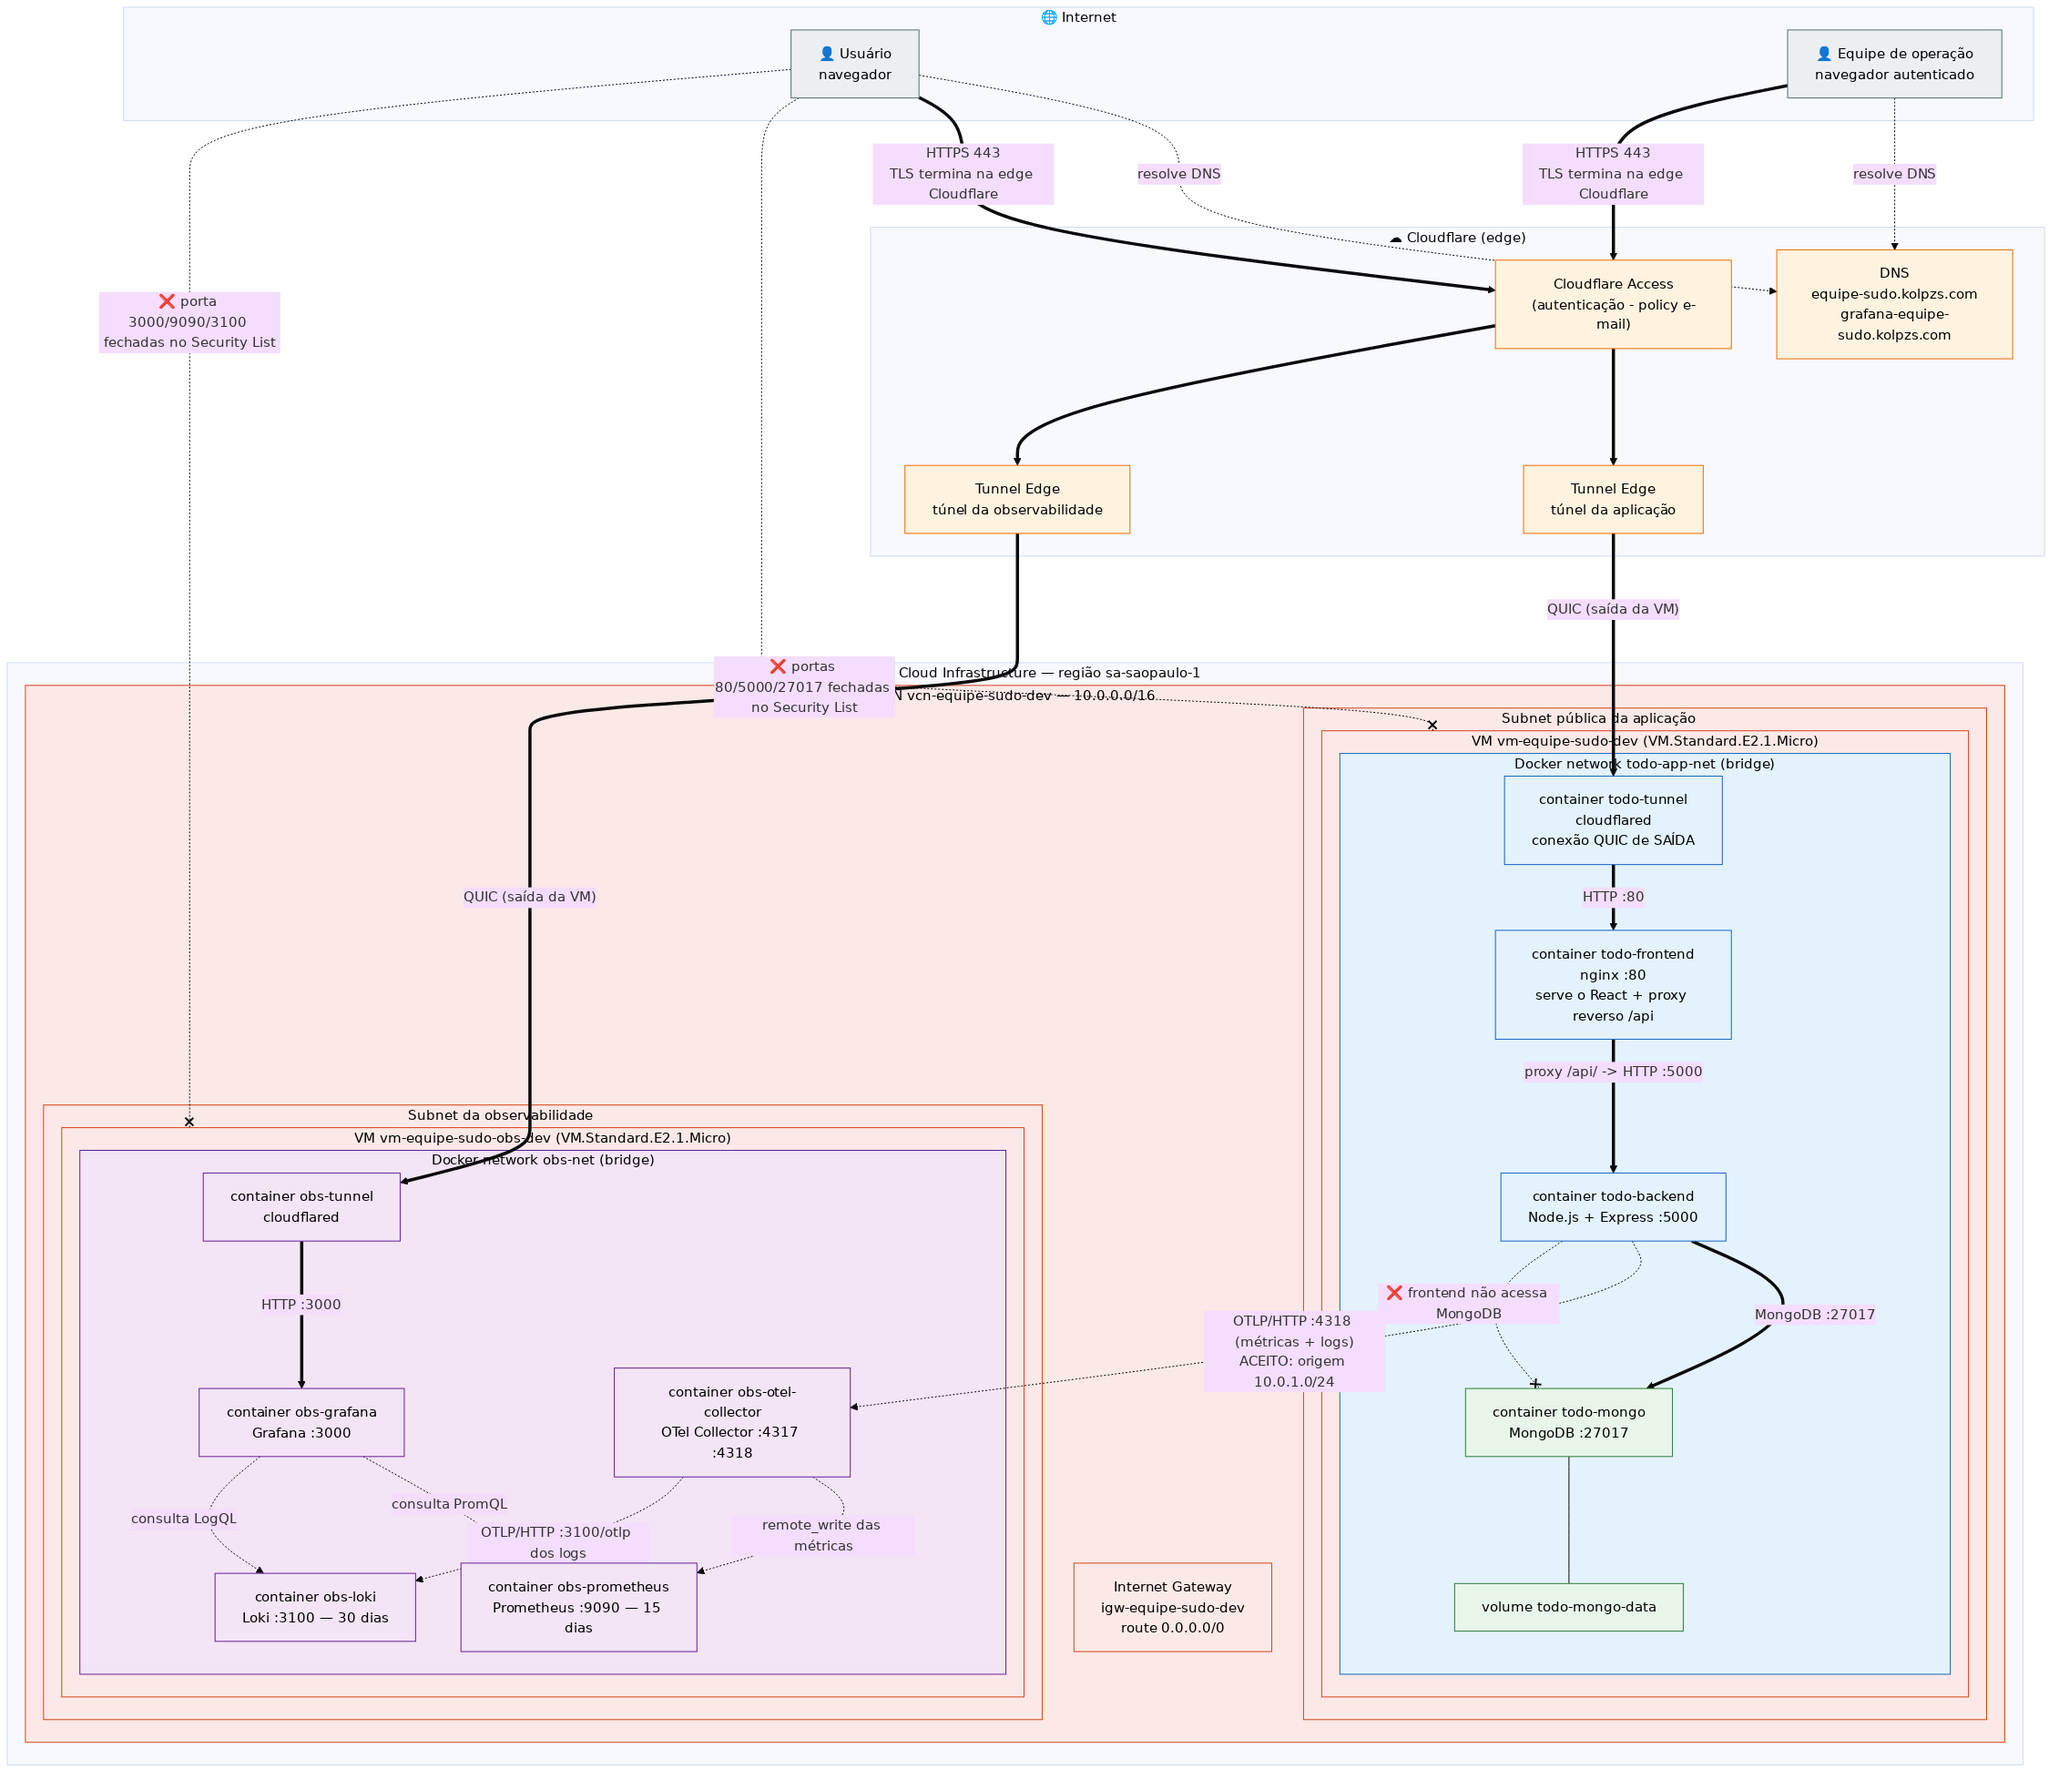
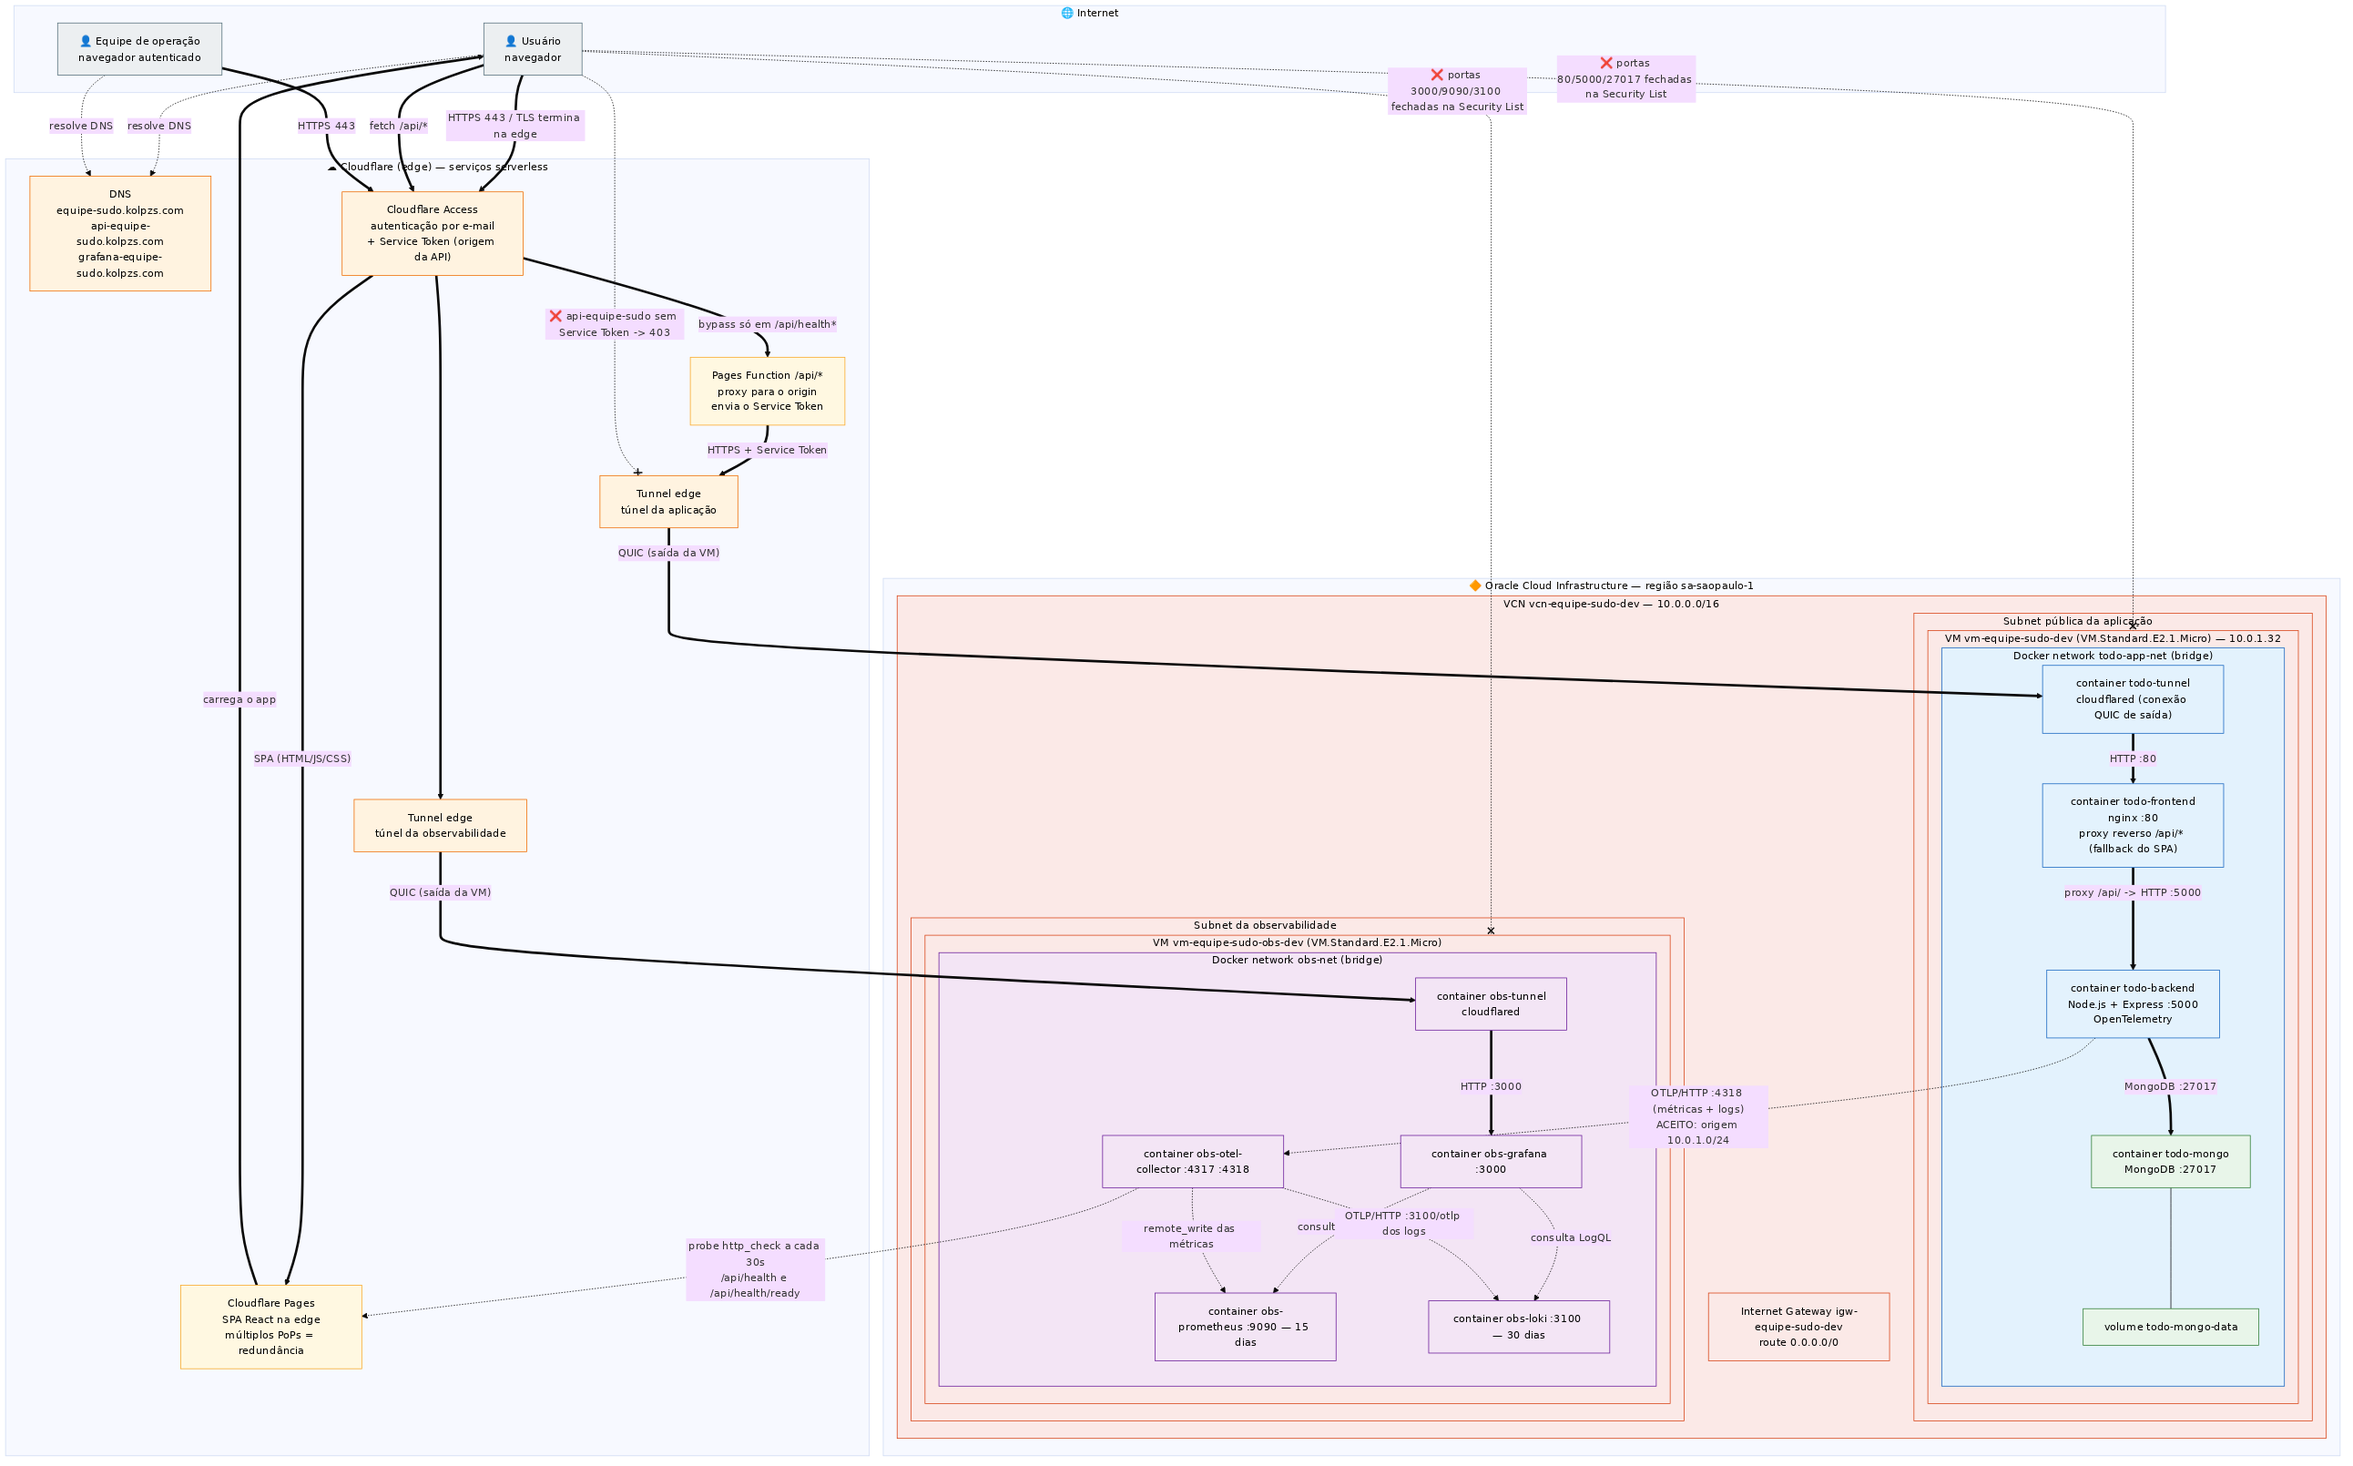
feat(pages): front-end na edge e diagrama atualizado
- workflow deploy-pages.yml: builda o SPA e publica no Cloudflare Pages
- diagrama atualizado: Pages na edge (serverless/redundante), Pages Function
  em /api/*, hostname de origem da API protegido por Service Token
- docs: arquitetura, fluxo do probe, automacao e limitacoes atualizados

diff --git a/docs/entrega-final-02/README.md b/docs/entrega-final-02/README.md
@@ -38,6 +38,8 @@ e **correções necessárias** encontradas ao evoluir a infraestrutura:
 | 7 | Correção: o `terraform plan` tentava alterar `shape_config` (1→2 OCPU / 1→12 GB) e trocar a imagem de boot da VM em execução | Risco de recriar a VM e **perder o volume do MongoDB** |
 | 8 | Correção: workflows do repo da aplicação buildavam `linux/arm64`, incompatível com a VM AMD | As imagens publicadas precisam ser `linux/amd64` |
 | 9 | Estado do Terraform migrado para o **OCI Object Storage** (backend nativo `oci`, com locking) | Permitir `terraform apply` no GitHub Actions, sem depender do estado local de uma máquina |
+| 10 | Front-end migrado para o **Cloudflare Pages** (SPA na edge) — serverless e distribuído | Atender os requisitos de **serviços serverless** e **redundância do front-end** herdados da Entrega 01 |
+| 11 | **Pages Function** em `/api/*` + hostname de origem `api-equipe-sudo.kolpzs.com` protegido por **Access (Service Token)** | O back-end continua na OCI e protegido; a edge passa a ser a entrada do front-end |
 
 O diagrama foi atualizado para representar o ambiente final (seção 4).
 
@@ -92,6 +94,10 @@ VS Code com extensão Mermaid ou <https://mermaid.live>) e **`diagrama-entrega-f
 | Domínio do front-end/API | `equipe-sudo.kolpzs.com` |
 | Domínio do Grafana | `grafana-equipe-sudo.kolpzs.com` |
 | Containers da aplicação | `todo-tunnel`, `todo-frontend`, `todo-backend`, `todo-mongo` (rede `todo-app-net`) |
+| Front-end na edge | **Cloudflare Pages** (projeto `equipe-sudo-frontend`) — SPA React em múltiplos PoPs |
+| Proxy da API na edge | **Pages Function** `functions/api/[[path]].js` |
+| Origem da API (privada ao navegador) | `api-equipe-sudo.kolpzs.com` → túnel `sudo` → `http://frontend:80` |
+| Credencial da Function para a origem | **Service Token** do Cloudflare Access (`pages-api-origin`) |
 | Containers da observabilidade | `obs-tunnel`, `obs-otel-collector`, `obs-prometheus`, `obs-loki`, `obs-grafana` (rede `obs-net`) |
 | Origem das chamadas à API | **Navegador do usuário** → `/api/*` no mesmo domínio (não há chamada server-side do front-end) |
 
@@ -99,7 +105,9 @@ VS Code com extensão Mermaid ou <https://mermaid.live>) e **`diagrama-entrega-f
 
 | Caminho | Protocolo / porta | Terminação TLS |
 |---|---|---|
-| Usuário → Cloudflare | HTTPS 443 | **Cloudflare edge** |
+| Usuário → Cloudflare (SPA) | HTTPS 443 | **Cloudflare edge** (Pages) |
+| Usuário → Cloudflare (`/api/*`) | HTTPS 443 | **Cloudflare edge** (Pages Function) |
+| Pages Function → origem da API | HTTPS 443 + Service Token | **Cloudflare edge** |
 | Cloudflare → `cloudflared` | QUIC (conexão de **saída** da VM) | Cloudflare |
 | `cloudflared` → `nginx` | HTTP 80 (rede Docker) | não aplicável (rede interna) |
 | `nginx` → backend | HTTP 5000 (rede Docker) | não aplicável |
@@ -155,7 +163,7 @@ Caminho completo, conforme exigido (componente → coleta → armazenamento → 
 |---|---|---|---|---|
 | Requisições, latência, erros, operações de negócio e de banco | **Backend** (SDK OpenTelemetry em `instrumentation.js` + `index.js`) | OTLP/HTTP → `obs-otel-collector:4318` → `remote_write` | **Prometheus** (15 dias) — PromQL | Painéis **3, 4, 5, 6, 7** |
 | Logs de aplicação | **Backend** (`logger.js`, JSON em stdout e LogRecord OTLP) | OTLP/HTTP → `obs-otel-collector:4318` → OTLP para Loki | **Loki** (30 dias) — LogQL | Painel **8** |
-| Disponibilidade pelo domínio | **OTel Collector** (receiver `http_check`, a cada 30 s) | interno ao Collector → `remote_write` | **Prometheus** | Painéis **1 e 2** |
+| Disponibilidade pelo domínio | **OTel Collector** (receiver `http_check`, a cada 30 s) | Collector → `https://equipe-sudo.kolpzs.com/api/health` (**edge/Pages Function**) → origem da API → backend; resultado por `remote_write` | **Prometheus** | Painéis **1 e 2** |
 
 **Serviço gerenciado que acumula funções:** o **OTel Collector** reúne coleta, transformação
 (processors `memory_limiter`, `batch`, `resource`) e **duas** verificações ativas de
@@ -607,7 +615,8 @@ Os deploys de **aplicação** e **observabilidade** agora são acionados automat
 |---|---|---|
 | Push na `main` que altera `docker/**` | Deploy da aplicação | `deploy-vm.yml` |
 | Push na `main` que altera `observability/**` | Deploy da stack | `deploy-observability.yml` |
-| Imagem nova publicada pelo repo da aplicação | Deploy da aplicação | `repository_dispatch: app-image-updated` |
+| Imagem nova publicada pelo repo da aplicação | Deploy da aplicação (origin) | `repository_dispatch: app-image-updated` |
+| Imagem nova publicada pelo repo da aplicação | Deploy do front-end na edge | `repository_dispatch: app-image-updated` → `deploy-pages.yml` |
 | Manual | Qualquer um | `workflow_dispatch` (continua disponível) |
 
 O caminho completo fica:
@@ -616,7 +625,8 @@ O caminho completo fica:
 push na main do repo da aplicação
    └─► "Build & Push Backend/Frontend" (linux/amd64) ──► GHCR
           └─► repository_dispatch: app-image-updated
-                 └─► "Deploy to VM" (pull + up -d)
+                 ├─► "Deploy to VM"       (origin: docker compose pull + up -d)
+                 └─► "Deploy Frontend (Cloudflare Pages)" (edge: build + wrangler pages deploy)
 ```
 
 Para isso, o repositório da **aplicação** precisa do secret **`CI_PAT`** (um token com escopo
@@ -702,11 +712,12 @@ grupo, após o merge):
 
 ## 12. Limitações declaradas (transparência)
 
-1. **Redundância de origem do front-end:** há **um** ponto de origem (nginx na VM da aplicação). A
-   redundância existe apenas na **edge do Cloudflare** (anycast). O requisito de redundância de
-   pontos de atendimento **não está implementado** nesta entrega; a evolução proposta é publicar o
-   front-end no **Cloudflare Pages** (múltiplas origens + failover). O diagrama não desenha réplicas
-   que não existem, conforme pede o enunciado.
+1. **Redundância do front-end:** o SPA é servido pelo **Cloudflare Pages**, que distribui o conteúdo
+   por **múltiplos pontos de presença (PoPs) da edge** — ou seja, o front-end tem atendimento
+   redundante e serverless. **Limitação honesta:** é uma redundância **gerenciada pelo provedor**
+   (não controlamos as réplicas); o que controlamos é o código publicado e o domínio. O back-end e o
+   banco continuam em **origem única** na VM (não há réplica de API/banco nesta entrega) — o diagrama
+   não desenha réplicas que não existem.
 2. **Logs do nginx não coletados:** apenas os logs do back-end chegam ao Loki. Erros ocorridos
    antes do Express (ex.: 502 do túnel) não aparecem no painel 8.
 3. **Sem traces:** o SDK está configurado com `OTEL_TRACES_EXPORTER=none` e não há backend de
